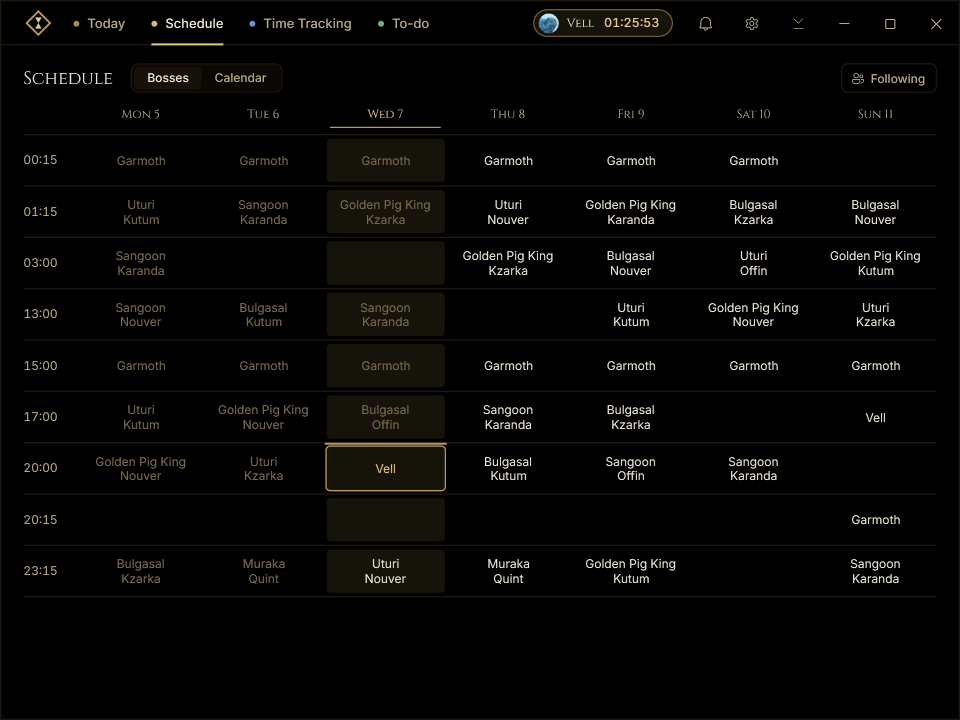
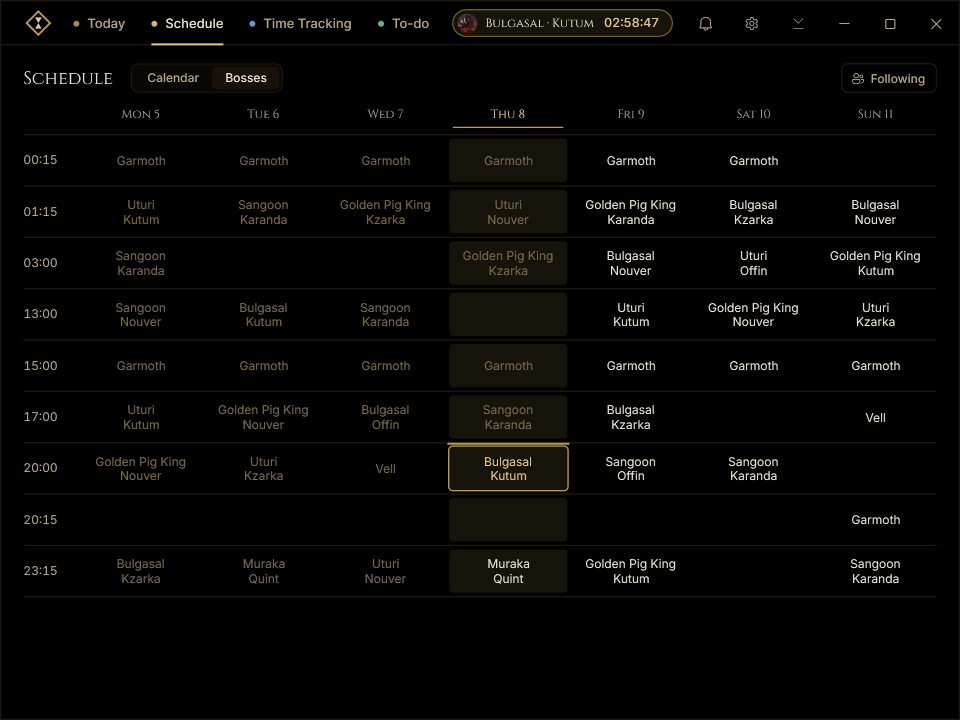
docs: README shows the Calendar first, Settings → Today and the overlay's per-row timing

diff --git a/README.md b/README.md
@@ -22,15 +22,19 @@
 
 The next boss spawn counts down at the top, with the one after it and the alert times. Below it, the next 24 hours of
 spawns, timers and resets; on the right, the timers that are running and your daily and weekly tasks.
+Daily tasks, Weekly tasks and Garmoth can be hidden in **Settings → Today**.
 
-![Schedule with this week's boss spawns](docs/images/schedule.png)
+![Schedule's Calendar with a month of boss spawns, timers, events and resets, and the day picked on the right](docs/images/schedule-month.png)
 
 ## Schedule
 
-World boss schedules for EU and NA, shown in your local time: this week's grid, and a month view with your timers and
-events. Choose which bosses to follow in **Following**; event bosses can be added alongside the built-in timetable.
+World boss schedules for EU and NA, shown in your local time. **Calendar** opens first: a month of boss spawns, your
+timers, events and resets, with a day list beside it and **New event** to add a one-time event. **Bosses** shows this
+week's grid. Choose which bosses to follow in **Following**; event bosses can be added alongside the built-in timetable.
 Garmoth can be done three times a week: turn on the Garmoth tracker in Settings, mark each kill on Today, and after the
 third he drops out of alerts and the schedule until the weekly reset. [Timetable sources](docs/boss-region-sources.md).
+
+![Schedule's Bosses tab with this week's boss spawns](docs/images/schedule.png)
 
 ## Time Tracking
 
@@ -65,6 +69,8 @@ Windows notifications need priority access to appear during Do Not Disturb.
 
 The overlay shows boss spawns, running timers and local, server or in-game time in List, Card or Bar layouts.
 It can stay pinned, appear briefly for an alert or hotkey, and fade or hide when the pointer gets close.
+In **Settings → Overlay**, each timed row (the next boss, Farm, horse registrations, custom timers, Guild bosses and your
+own events) can show always, or only from a set time before it happens.
 
 | Default shortcut | Action |
 | --- | --- |
